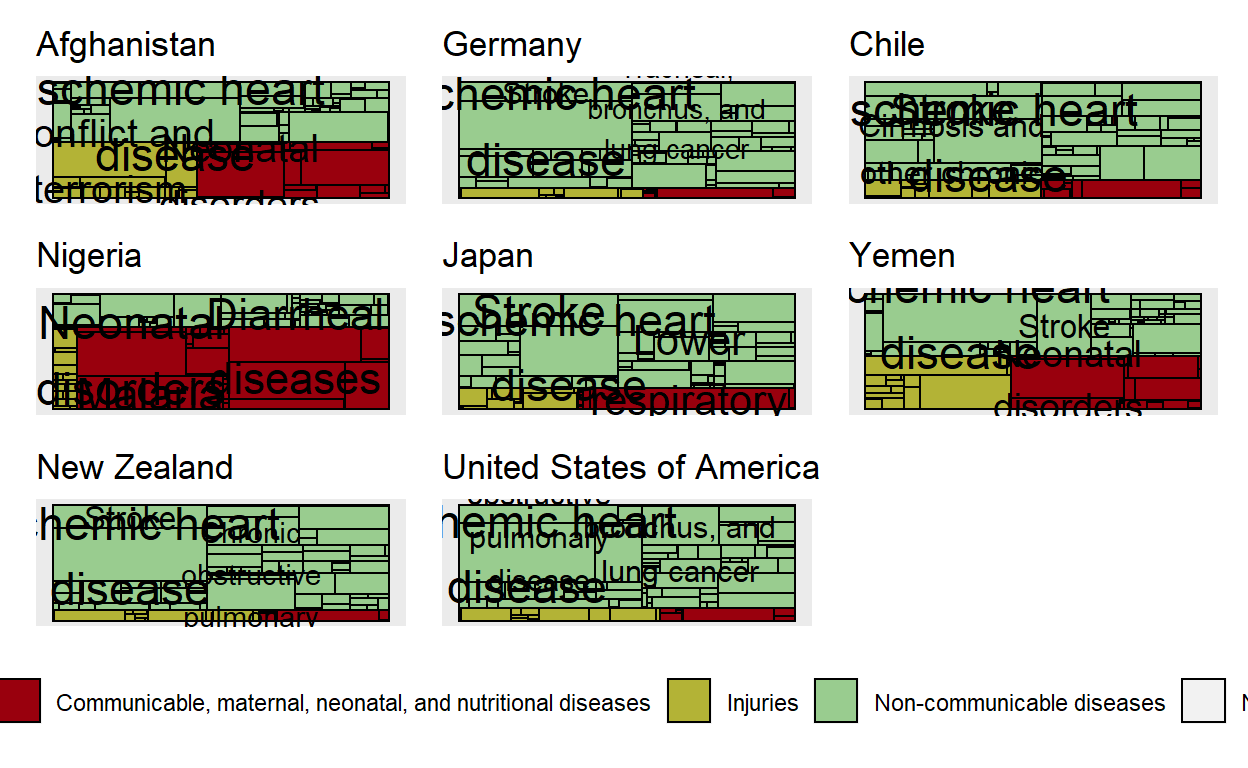
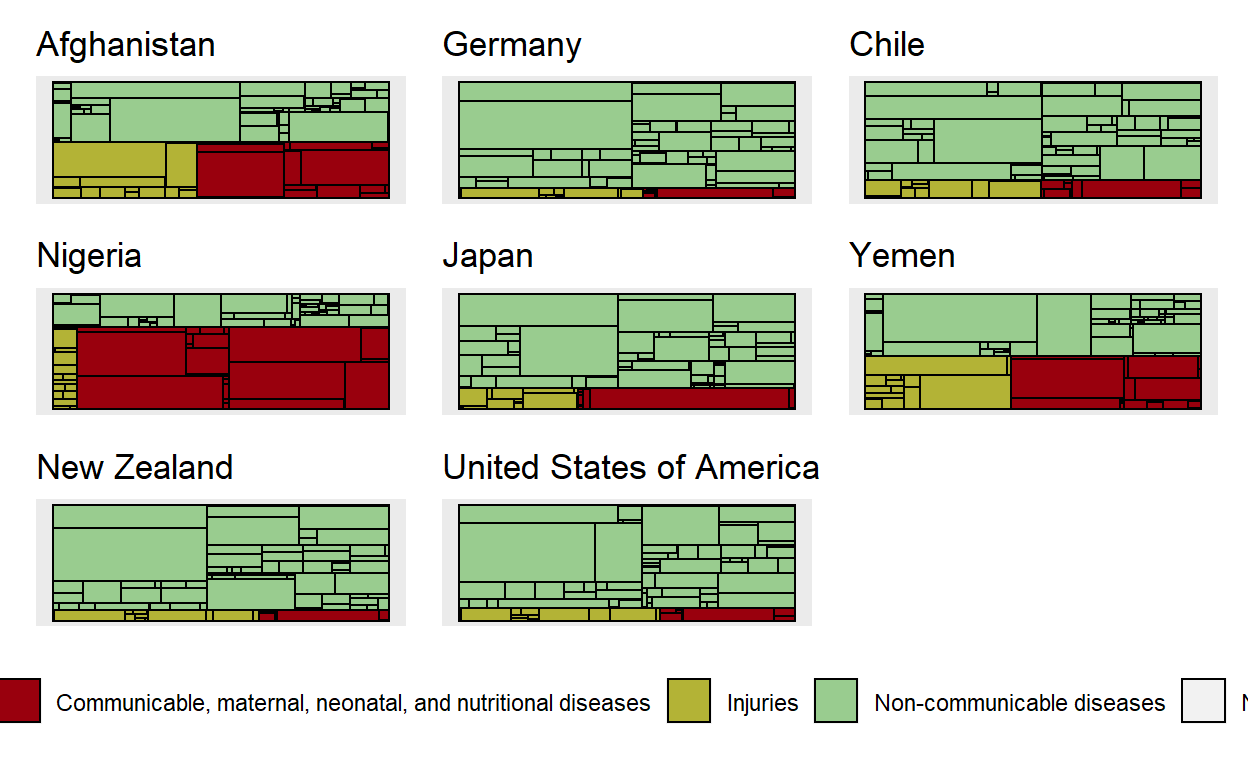
removed text from patchwork image

diff --git a/_posts/2021-05-24-ggraph/ggraph.html b/_posts/2021-05-24-ggraph/ggraph.html
@@ -2836,7 +2836,7 @@ code span.wa { color: #545454; font-weight: bold; font-style: italic; } /* Warni
   
   <span class='fu'><a href='https://ggraph.data-imaginist.com/reference/ggraph.html'>ggraph</a></span><span class='op'>(</span><span class='va'>graph</span>, <span class='st'>'treemap'</span>, weight <span class='op'>=</span> <span class='va'>val</span><span class='op'>)</span> <span class='op'>+</span> 
     <span class='fu'><a href='https://ggraph.data-imaginist.com/reference/geom_node_tile.html'>geom_node_tile</a></span><span class='op'>(</span><span class='fu'>aes</span><span class='op'>(</span>fill <span class='op'>=</span> <span class='va'>parent2</span><span class='op'>)</span><span class='op'>)</span> <span class='op'>+</span>
-    <span class='fu'><a href='https://ggraph.data-imaginist.com/reference/geom_node_text.html'>geom_node_text</a></span><span class='op'>(</span><span class='fu'>aes</span><span class='op'>(</span>label <span class='op'>=</span> <span class='fu'>stringr</span><span class='fu'>::</span><span class='fu'><a href='https://stringr.tidyverse.org/reference/str_wrap.html'>str_wrap</a></span><span class='op'>(</span><span class='va'>new_label</span>,<span class='fl'>15</span><span class='op'>)</span>, size <span class='op'>=</span> <span class='va'>val</span><span class='op'>)</span><span class='op'>)</span> <span class='op'>+</span>
+    <span class='co'>#geom_node_text(aes(label = stringr::str_wrap(new_label,15), size = val)) +</span>
     <span class='fu'>guides</span><span class='op'>(</span>size <span class='op'>=</span> <span class='cn'>FALSE</span><span class='op'>)</span> <span class='op'>+</span>
     <span class='fu'>harrypotter</span><span class='fu'>::</span><span class='fu'><a href='https://rdrr.io/pkg/harrypotter/man/scale_hp.html'>scale_fill_hp_d</a></span><span class='op'>(</span>option <span class='op'>=</span> <span class='st'>"HarryPotter"</span><span class='op'>)</span> <span class='op'>+</span>
     <span class='fu'>labs</span><span class='op'>(</span>title <span class='op'>=</span> <span class='va'>country</span><span class='op'>)</span>

diff --git a/_site/posts/2021-05-24-ggraph/index.html b/_site/posts/2021-05-24-ggraph/index.html
@@ -3758,7 +3758,7 @@ d-appendix d-footnote-list a.footnote-backlink {
   
   <span class='fu'><a href='https://ggraph.data-imaginist.com/reference/ggraph.html'>ggraph</a></span><span class='op'>(</span><span class='va'>graph</span>, <span class='st'>'treemap'</span>, weight <span class='op'>=</span> <span class='va'>val</span><span class='op'>)</span> <span class='op'>+</span> 
     <span class='fu'><a href='https://ggraph.data-imaginist.com/reference/geom_node_tile.html'>geom_node_tile</a></span><span class='op'>(</span><span class='fu'>aes</span><span class='op'>(</span>fill <span class='op'>=</span> <span class='va'>parent2</span><span class='op'>)</span><span class='op'>)</span> <span class='op'>+</span>
-    <span class='fu'><a href='https://ggraph.data-imaginist.com/reference/geom_node_text.html'>geom_node_text</a></span><span class='op'>(</span><span class='fu'>aes</span><span class='op'>(</span>label <span class='op'>=</span> <span class='fu'>stringr</span><span class='fu'>::</span><span class='fu'><a href='https://stringr.tidyverse.org/reference/str_wrap.html'>str_wrap</a></span><span class='op'>(</span><span class='va'>new_label</span>,<span class='fl'>15</span><span class='op'>)</span>, size <span class='op'>=</span> <span class='va'>val</span><span class='op'>)</span><span class='op'>)</span> <span class='op'>+</span>
+    <span class='co'>#geom_node_text(aes(label = stringr::str_wrap(new_label,15), size = val)) +</span>
     <span class='fu'>guides</span><span class='op'>(</span>size <span class='op'>=</span> <span class='cn'>FALSE</span><span class='op'>)</span> <span class='op'>+</span>
     <span class='fu'>harrypotter</span><span class='fu'>::</span><span class='fu'><a href='https://rdrr.io/pkg/harrypotter/man/scale_hp.html'>scale_fill_hp_d</a></span><span class='op'>(</span>option <span class='op'>=</span> <span class='st'>"HarryPotter"</span><span class='op'>)</span> <span class='op'>+</span>
     <span class='fu'>labs</span><span class='op'>(</span>title <span class='op'>=</span> <span class='va'>country</span><span class='op'>)</span>
